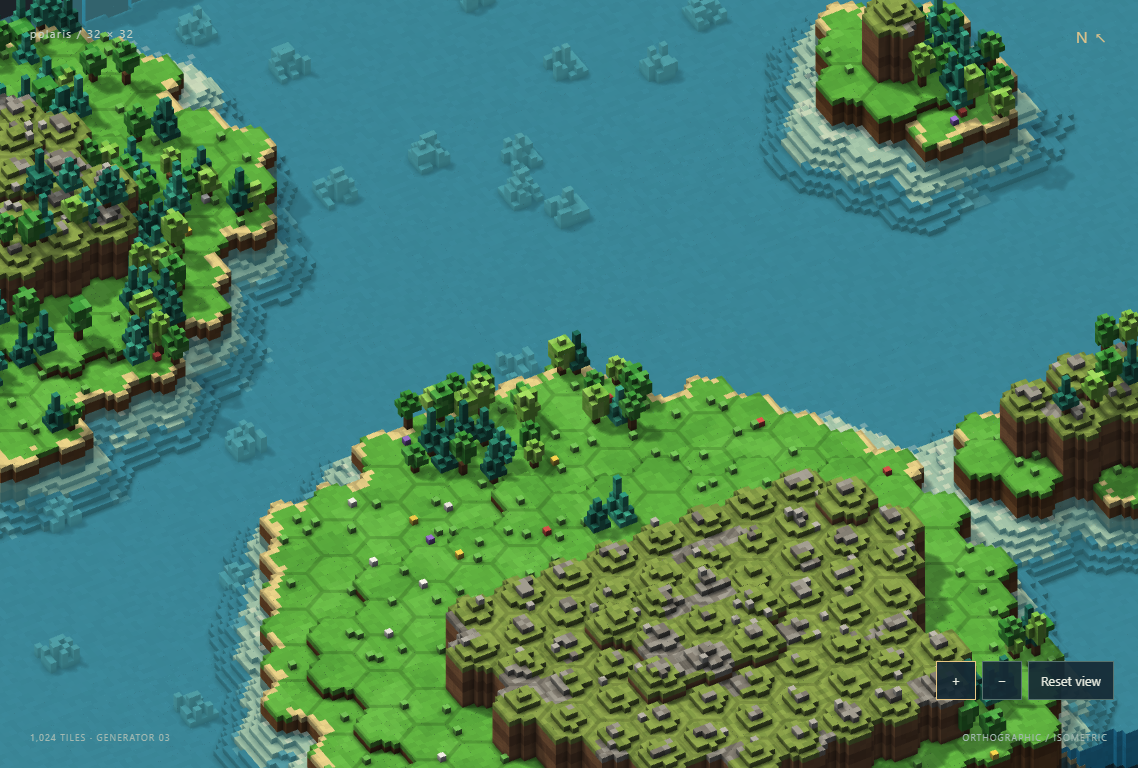
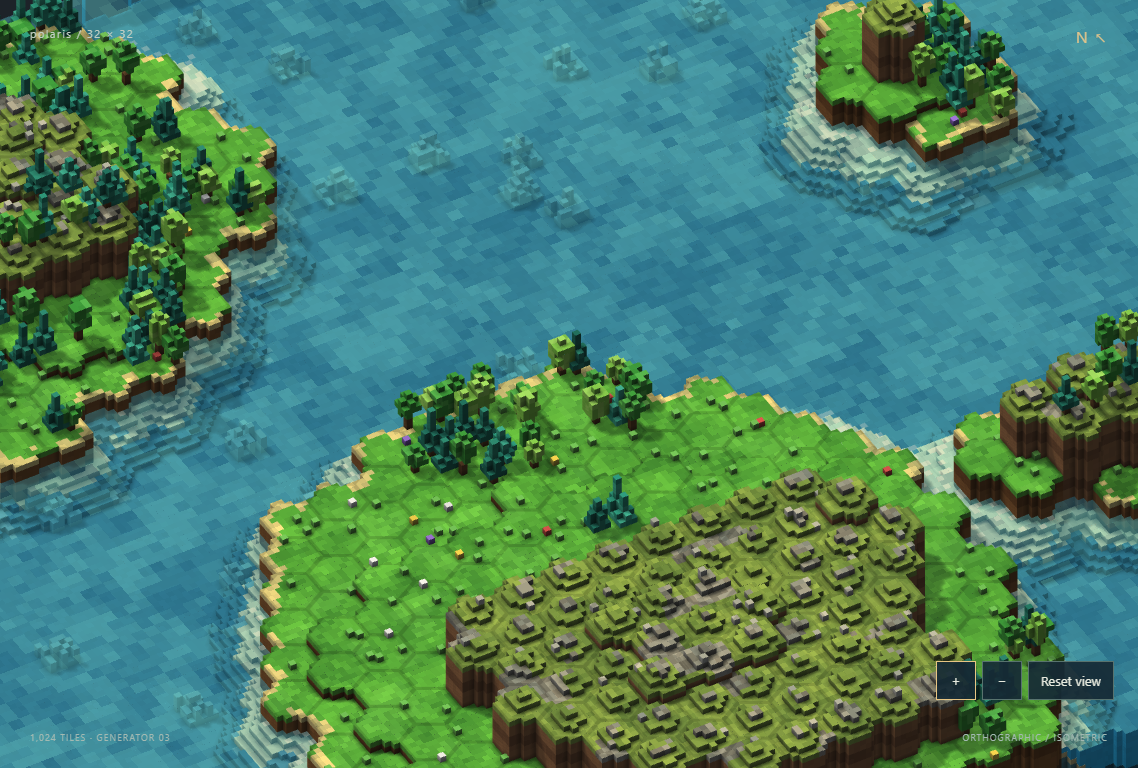
Add world-anchored shades to voxel surfaces
Add stepped material patches on water and terrain while preserving submerged geometry. Cover contrast and world anchoring with framebuffer regressions and refresh shared visual guidance.

diff --git a/tests/atlas.spec.ts b/tests/atlas.spec.ts
@@ -1,7 +1,7 @@
 import { expect, test, type Page } from '@playwright/test'
-import { generateMap } from '../src/game/map'
+import { generateMap, type Tile } from '../src/game/map'
 import { HEX_ROW, hexCenter } from '../src/game/hex'
-import { createVoxelWorld, centreColumn } from '../src/rendering/voxels'
+import { createVoxelWorld, centreColumn, type VoxelWorld } from '../src/rendering/voxels'
 
 async function settled(page: Page) {
   await page.evaluate(() => new Promise<void>(resolve => requestAnimationFrame(() => requestAnimationFrame(() => resolve()))))
@@ -9,6 +9,52 @@ async function settled(page: Page) {
 
 async function stats(page: Page) {
   return page.evaluate(() => window.polarisDiagnostics!.stats())
+}
+
+async function sampleSurface(page: Page, world: VoxelWorld, tile: Tile) {
+  const [origin, east, south] = await page.evaluate(ids => ids.map(id => window.polarisDiagnostics!.projectTile(id)),
+    [tile.id, tile.id + 1, tile.id + world.map.width])
+  expect(origin && east && south).toBeTruthy()
+  const dx = { x: east!.x - origin!.x, y: east!.y - origin!.y }
+  const rowShift = tile.z % 2 ? -0.5 : 0.5
+  const dz = { x: (south!.x - origin!.x - rowShift * dx.x) / HEX_ROW,
+    y: (south!.y - origin!.y - rowShift * dx.y) / HEX_ROW }
+  const [cx, cz] = hexCenter(tile.x, tile.z)
+  const [gx, gz] = centreColumn(world, tile)
+  const points: { x: number; y: number }[] = []
+  for (let z = -2; z < 3; z++) for (let x = -2; x < 3; x++) {
+    for (const fraction of [0.4, 0.6]) {
+      const u = world.originX + (gx + x + fraction) * world.size - cx
+      const v = world.originZ + (gz + z + fraction) * world.size - cz
+      points.push({ x: origin!.x + u * dx.x + v * dz.x, y: origin!.y + u * dx.y + v * dz.y })
+    }
+  }
+  const samples = await page.locator('canvas').evaluate((canvas, points) => {
+    const gl = (canvas as HTMLCanvasElement).getContext('webgl2')!
+    const rect = canvas.getBoundingClientRect()
+    return points.map(point => {
+      const x = Math.floor((point.x - rect.left) * gl.drawingBufferWidth / rect.width)
+      const y = gl.drawingBufferHeight - 1 - Math.floor((point.y - rect.top) * gl.drawingBufferHeight / rect.height)
+      if (x < 0 || y < 0 || x >= gl.drawingBufferWidth || y >= gl.drawingBufferHeight) throw new Error('Surface sample is off-screen')
+      const pixel = new Uint8Array(4)
+      gl.readPixels(x, y, 1, 1, gl.RGBA, gl.UNSIGNED_BYTE, pixel)
+      return [...pixel]
+    })
+  }, points)
+  return { origin: origin!, samples }
+}
+
+async function inspectSurface(page: Page, tile: Tile) {
+  await page.getByRole('button', { name: 'Reset view' }).click()
+  const point = await page.evaluate(id => window.polarisDiagnostics!.projectTile(id)!, tile.id)
+  const rect = (await page.locator('canvas').boundingBox())!
+  const x = rect.x + rect.width / 2, y = rect.y + rect.height / 2
+  await page.mouse.move(x, y)
+  await page.mouse.down()
+  await page.mouse.move(2 * x - point.x, 2 * y - point.y, { steps: 4 })
+  await page.mouse.up()
+  for (let zoom = 0; zoom < 5; zoom++) await page.getByRole('button', { name: 'Zoom in', exact: true }).click()
+  await settled(page)
 }
 
 async function selectTile(page: Page, width = 32, height = width) {
@@ -108,35 +154,7 @@ test('renders submerged water detail while picking the unchanged level surface',
   await page.locator('canvas').focus()
   for (let zoom = 0; zoom < 5; zoom++) await page.keyboard.press('+')
   await settled(page)
-  const [origin, east, south] = await page.evaluate(ids => ids.map(id => window.polarisDiagnostics!.projectTile(id)),
-    [tile.id, tile.id + 1, tile.id + map.width])
-  expect(origin && east && south).toBeTruthy()
-  const dx = { x: east!.x - origin!.x, y: east!.y - origin!.y }
-  const rowShift = tile.z % 2 ? -0.5 : 0.5
-  const dz = { x: (south!.x - origin!.x - rowShift * dx.x) / HEX_ROW,
-    y: (south!.y - origin!.y - rowShift * dx.y) / HEX_ROW }
-  const [cx, cz] = hexCenter(tile.x, tile.z)
-  const [gx, gz] = centreColumn(world, tile)
-  const points: { x: number; y: number }[] = []
-  for (let z = -2; z < 2; z++) for (let x = -2; x < 2; x++) {
-    for (const fraction of [0.4, 0.6]) {
-      const u = world.originX + (gx + x + fraction) * world.size - cx
-      const v = world.originZ + (gz + z + fraction) * world.size - cz
-      points.push({ x: origin!.x + u * dx.x + v * dz.x, y: origin!.y + u * dx.y + v * dz.y })
-    }
-  }
-  const samples = await page.locator('canvas').evaluate((canvas, points) => {
-    const gl = (canvas as HTMLCanvasElement).getContext('webgl2')!
-    const rect = canvas.getBoundingClientRect()
-    return points.map(point => {
-      const x = Math.floor((point.x - rect.left) * gl.drawingBufferWidth / rect.width)
-      const y = gl.drawingBufferHeight - 1 - Math.floor((point.y - rect.top) * gl.drawingBufferHeight / rect.height)
-      if (x < 0 || y < 0 || x >= gl.drawingBufferWidth || y >= gl.drawingBufferHeight) throw new Error('Water sample is off-screen')
-      const pixel = new Uint8Array(4)
-      gl.readPixels(x, y, 1, 1, gl.RGBA, gl.UNSIGNED_BYTE, pixel)
-      return [...pixel]
-    })
-  }, points)
+  const { origin, samples } = await sampleSurface(page, world, tile)
   const tones: number[] = []
   let totalRed = 0
   let totalGreen = 0
@@ -154,6 +172,50 @@ test('renders submerged water detail while picking the unchanged level surface',
   await expect(page.getByRole('status')).toHaveText(`(${tile.x}, ${tile.z}) · Water · Tile ${tile.id}`)
   expect((await stats(page)).waterSurfaceQuads).toBeGreaterThan(0)
 })
+
+for (const terrain of ['water', 'grassland'] as const) {
+  test(`${terrain} shows voxel-sized material shades anchored to the world`, async ({ page }, testInfo) => {
+    const map = generateMap({ seed: 'polaris', width: 32, height: 32 })
+    const world = createVoxelWorld(map)
+    await page.goto('/?diagnostics=1')
+    await expect(page.locator('#map-status')).toContainText('1,024 TILES')
+    const initial = await stats(page)
+    const tile = map.tiles.filter(tile => tile.terrain === terrain
+      && tile.x > 2 && tile.x < 29 && tile.z > 2 && tile.z < 29
+      && map.tiles.every(other => Math.hypot(other.x - tile.x, other.z - tile.z) > 1.8
+        || (other.terrain === terrain && other.elevation === tile.elevation && other.trees === 0)))
+      .sort((a, b) => Math.hypot(a.x - 16, a.z - 16) - Math.hypot(b.x - 16, b.z - 16))[0]
+    expect(tile, `Flat, tree-free ${terrain} sample`).toBeDefined()
+    await inspectSurface(page, tile!)
+    const { samples } = await sampleSurface(page, world, tile!)
+    const green = samples.filter((_, i) => i % 2 === 0).map(pixel => pixel[1]!)
+    expect(Math.max(...green) - Math.min(...green), `${terrain} tonal range`).toBeGreaterThan(18)
+    expect(new Set(green.map(value => Math.round(value / 4))).size, `${terrain} tone bands`).toBeGreaterThanOrEqual(4)
+    if (terrain === 'grassland') {
+      // Isolated tufts/stones must not stand in for variation across the ground itself.
+      const sorted = [...green].sort((a, b) => a - b)
+      const middleRange = sorted[Math.floor(sorted.length * 0.75)]! - sorted[Math.floor(sorted.length * 0.25)]!
+      expect(middleRange, 'Grass shading spans the surface, not just a few outliers').toBeGreaterThan(12)
+    }
+    let withinCell = 0
+    for (let i = 0; i < samples.length; i += 2) {
+      withinCell += Math.abs(samples[i]![1]! - samples[i + 1]![1]!)
+      expect(samples[i]![3]).toBe(255)
+    }
+    expect(withinCell / (samples.length / 2), `${terrain} is flat inside each voxel`).toBeLessThan(3)
+    await page.locator('canvas').screenshot({ path: testInfo.outputPath(`surface-${terrain}.png`) })
+
+    await page.locator('canvas').focus()
+    await page.keyboard.press('ArrowRight')
+    await settled(page)
+    const shifted = await sampleSurface(page, world, tile!)
+    const differences = samples.map((pixel, i) => Math.abs(pixel[1]! - shifted.samples[i]![1]!))
+    expect(Math.max(...differences), `${terrain} shades must move with the world, not the screen`).toBeLessThanOrEqual(3)
+    expect(await stats(page)).toMatchObject({
+      vertices: initial.vertices, vertexBufferBytes: initial.vertexBufferBytes, remeshedChunks: initial.remeshedChunks,
+    })
+  })
+}
 
 test('regenerates repeatably and releases old chunk resources three times', async ({ page }) => {
   await page.goto('/?diagnostics=1')

diff --git a/src/rendering/world.ts b/src/rendering/world.ts
@@ -78,7 +78,7 @@ const PLATE_HEIGHT = 0.95
 const FIGURE_YAW = Math.PI / 6 - 0.4
 
 /**
- * Per-voxel grain, hex grid lines, territory tint and borders, explored dimming and reachable highlights on top of
+ * Voxel-aligned material tones, hex grid lines, territory tint and borders, explored dimming and reachable highlights on top of
  * baked vertex colours and ambient occlusion. Tile state lives in small textures, so fog-of-war, movement and
  * territory changes never require remeshing.
  */
@@ -139,6 +139,19 @@ uniform sampler2D polarisTileState;
 uniform sampler2D polarisColumns;
 vec3 polarisFaction(int owner) { return owner == 1 ? vec3(1.0, 0.76, 0.2) : vec3(0.22, 0.52, 1.0); }
 int polarisByte(float value) { return int(value * 255.0 + 0.5); }
+float polarisGrain(ivec3 cell) {
+  uvec3 p = uvec3(cell + 8192);
+  uint h = p.x * 73856093u ^ p.y * 19349663u ^ p.z * 83492791u;
+  h = (h ^ (h >> 13u)) * 1274126177u;
+  return float((h >> 8u) & 255u) / 255.0;
+}
+float polarisPatch(vec2 p) {
+  ivec2 cell = ivec2(floor(p));
+  vec2 t = fract(p);
+  t = t * t * (3.0 - 2.0 * t);
+  return mix(mix(polarisGrain(ivec3(cell.x, 97, cell.y)), polarisGrain(ivec3(cell.x + 1, 97, cell.y)), t.x),
+    mix(polarisGrain(ivec3(cell.x, 97, cell.y + 1)), polarisGrain(ivec3(cell.x + 1, 97, cell.y + 1)), t.x), t.y);
+}
 `,
       // Tile state per texel: R explored, G reachable, A charted. B holds the territory owner in its low two bits
       // (0 none, 1 gold, 2 blue) and, above them, one bit per hex edge where that territory ends.
@@ -149,15 +162,30 @@ vec2 polarisWidth = fwidth(vPositionW.xz);
 float polarisAa = max(max(polarisWidth.x, polarisWidth.y), 1e-4);
 vec3 polarisInside = vPositionW - normalW * 0.5 * polarisVoxel.x;
 ivec2 polarisColumn = ivec2(floor((polarisInside.xz - polarisGrid.xy) / polarisVoxel.x));
-ivec3 polarisCell = ivec3(polarisColumn.x, int(floor(polarisInside.y / polarisVoxel.x)), polarisColumn.y) + 8192;
-uint polarisHash = uint(polarisCell.x) * 73856093u ^ uint(polarisCell.y) * 19349663u ^ uint(polarisCell.z) * 83492791u;
-polarisHash = (polarisHash ^ (polarisHash >> 13u)) * 1274126177u;
-float polarisNoise = float((polarisHash >> 8u) & 255u) / 255.0;
+ivec3 polarisCell = ivec3(polarisColumn.x, int(floor(polarisInside.y / polarisVoxel.x)), polarisColumn.y);
+float polarisNoise = polarisGrain(polarisCell);
 float polarisWater = step(1.25, vPolarisFlag);
 float polarisSurface = step(1.75, vPolarisFlag);
+float polarisLand = step(0.75, vPolarisFlag) * (1.0 - step(1.1, vPolarisFlag));
 float polarisWaterOverlay = 0.0;
-// Relief comes from the submerged voxel geometry, not a bevel painted on the level surface.
 if (polarisSurface < 0.5) baseColor.rgb *= 0.96 + 0.08 * polarisNoise;
+// Constant tones within world-space voxel cells form material patches, not painted depth or moving waves.
+if (normalW.y > 0.5 && polarisLand + polarisSurface > 0.5) {
+  float polarisCellSize = mix(1.0, 2.0, polarisSurface);
+  ivec2 polarisMaterialCell = ivec2(floor(vec2(polarisColumn) / polarisCellSize));
+  vec2 polarisSample = vec2(polarisMaterialCell) + 0.5;
+  float polarisMaterialGrain = polarisGrain(ivec3(polarisMaterialCell.x, polarisCell.y, polarisMaterialCell.y));
+  float polarisTone = clamp(0.5 + 0.85 * (polarisPatch(polarisSample / 3.0) - 0.5)
+    + 0.3 * (polarisPatch(polarisSample / 11.0) - 0.5)
+    + mix(0.25, 0.55, polarisSurface) * (polarisMaterialGrain - 0.5), 0.0, 0.999);
+  polarisTone = floor(polarisTone * 5.0) / 4.0;
+  float polarisDetail = 1.0 - smoothstep(0.35, 1.5, polarisAa / (polarisVoxel.x * polarisCellSize));
+  vec3 polarisDark = mix(vec3(0.8, 0.85, 0.82), vec3(0.62, 0.78, 0.88), polarisSurface);
+  vec3 polarisLight = mix(vec3(1.1, 1.08, 0.98), vec3(1.42, 1.25, 1.16), polarisSurface);
+  float polarisContrast = polarisDetail * mix(1.0, 0.35, step(2.125, vPolarisFlag));
+  baseColor.rgb *= mix(vec3(1.0), mix(polarisDark, polarisLight, polarisTone), polarisContrast);
+}
+// Relief still comes from the submerged voxel geometry.
 if (polarisWater > 0.5 && polarisSurface < 0.5) {
   float polarisDepth = max(0.0, polarisVoxel.w - vPositionW.y);
   baseColor.rgb = mix(baseColor.rgb, vec3(0.06, 0.42, 0.56), min(0.45, polarisDepth * 0.35));
@@ -168,7 +196,6 @@ if (vPolarisFlag > 0.25) {
   vec4 polarisState = texelFetch(polarisColumns, clamp(polarisColumn, ivec2(0), ivec2(polarisGrid.zw) - 1), 0);
   int polarisOwner = polarisByte(polarisState.b) & 3;
   // Tints colour the ground only, so buildings and trees keep their own colours.
-  float polarisLand = step(0.75, vPolarisFlag) * (1.0 - step(1.1, vPolarisFlag));
   float polarisGround = polarisLand + polarisSurface;
   ${this.waterPass ? 'polarisGround = 0.0;' : ''}
   if (polarisOwner > 0) baseColor.rgb = mix(baseColor.rgb, polarisFaction(polarisOwner), 0.14 * polarisGround);

diff --git a/docs/architecture.md b/docs/architecture.md
@@ -54,6 +54,7 @@ Terrain/resource definitions are typed, data-driven records with stable symbolic
 - `world.ts` uploads each chunk as one `Mesh` and geometry, with opaque indices first and transparent water indices last (`waterIndexCount`). Two submeshes share a `MultiMaterial` containing terrain and water `StandardMaterial`s; both use the same material plugin and state textures, with a shader define separating their cached terrain and water variants. Water adds at most one colour pass per water-bearing chunk, not per voxel or tile. The plugin adds per-voxel colour grain on solids, explored dimming, the reachable-range tint and territory tint, plus flat unlit fog. It reads two small state textures: a **width × height tile-state texture** (R explored, G reachable, B territory, A charted) and a **column texture** holding the owning tile's state for every voxel column. Hex overlays are drawn on land tops and the level water cap, not the submerged floor. The ordinary grid is faint on water and fades further when zoomed out; selection, reachable outline and territory border remain distinct. The territory byte (`territoryCode`) carries the owner plus one bit per hex edge where the territory ends. Explored dimming, ranges and borders update in place; newly charted terrain remeshes only affected chunks, including the outer shelf radius.
 - **Actual underwater voxel relief, not painted square facets.** The maintainer's Ist/Soll comparison rejected the former opaque patterned plane. Charted-land distance determines a continuous seabed depth, warped by deterministic broad/fine noise; depth therefore follows irregular coves rather than drawing even rings. The seabed shows pale sand in the shallows, patchy sand/stone on the shoal, muted stone at the shelf and a deep blue floor. Every seabed material, including deep blue, uses the water-floor face flag so it never inherits the land grid. Sparse seeded outcrops rise from it. Real top and side faces remain visible through a level alpha-blended cap (alpha 0.4); the open-water hex grid is suppressed so the underwater forms read first. Terrain and water material plugins share logic but have distinct shader-cache defines, preserving their different grid behavior. Water colour and softened underwater lighting support, rather than paint over, the geometry. Cut walls remain opaque blue. Only **charted** land shapes the depth field, and unknown tiles contain no seabed or rocks. Scale 2 omits coastal relief and outcrops to preserve large-map budgets. There are no dynamic waves, refraction, water physics or gameplay depth changes. Tests verify multiple floor heights and materials, submerged side faces and rocks, exact constant-height cap coverage, opaque/transparent index separation, hidden-coast protection, outer-shelf invalidation and unchanged water picking; a browser check verifies visible water detail in the framebuffer.
 - Lighting is a hemispheric fill and a directional sun with one 1024² PCF shadow map. The shadow map uses a 16-bit single-channel colour target plus 32-bit depth, about 6 MiB, fixed and independent of map size. Opaque terrain and submerged solids cast shadows; the transparent cap does not. The map is redrawn only after map changes or remeshing once shaders are ready, not every frame. Chunk vertex/index buffers are about 8.9 MiB for the showcase (187,364 vertices), 34.7 MiB at 64² (727,068) and 16.5 MiB at 256² (346,468), excluding shadows, state textures and CPU copies. The showcase atlas has **16 chunks + 2 markers = 18 meshes, 6 materials** (terrain, water, figures, rival ring, hover, selection), plus the shared `MultiMaterial`; both larger fixtures have **56 chunks, 58 meshes**. Geometry counts remain equal to mesh counts. Unit tests retain the 250k showcase and 900k larger-fixture vertex caps.
+- **Surface material shades supplement geometry.** The material plugin combines two smooth procedural patch fields with per-cell grain, quantizes them into five tones and applies material-specific RGB multipliers to upward-facing land and water-cap faces. This replaces the overly uniform surface reading without changing the accepted seabed. Cells are anchored in global voxel-column space, continuous across hex and chunk boundaries: one voxel on ground, 2 by 2 voxels on water to avoid fine visual noise. Derivative-based filtering fades their contrast as they become subpixel, and the shoreline receives only 35% of the contrast. Existing solid grain, baked occlusion, lighting and real underwater relief remain; decorations and opaque fog are excluded, and territory/reachable overlays apply afterward. No image texture, additional geometry, state texture, animation or rules/PRNG change is introduced. Browser framebuffer tests check water/grass tonal spread, flat colour inside cells, camera-independent world anchoring and unchanged vertex/buffer counts. The grass test also checks the interquartile colour range so isolated tufts or stones cannot masquerade as surface shading.
 - **Rendering on demand.** The map has no animation, so the render loop draws a frame only after something changed: camera, markers, map, fog, figures or canvas size all call `invalidate()`. It keeps drawing while shaders compile and refreshes the one-shot shadow map once the scene is ready. Idle turns therefore cost no GPU time, which matters for phone batteries and for several open matches. New code that changes the scene must call `invalidate()`.
 - **Units and cities.** Units are small voxel figures (`src/rendering/figures.ts`, 1/24-unit voxels, cached per kind and faction) standing on the visible voxel under their feet; several units on one hex stand side by side. Rival units also get a dashed red hex ring. Each visible city gets an HTML name plate with its population above the keep, positioned from the camera matrices after every camera change.
 - Picking does not ray-cast meshes. The renderer keeps a per-tile surface height, which is the fog height for unseen tiles. `pickTile` walks the camera ray through the voxel columns (2D DDA) and returns the canonical ID of the hex owning the first column the ray enters at or below its tile's surface. Unit tests check it against a brute-force intersection. Decorations never intercept picks, and identity never derives from draw order.

diff --git a/README.md b/README.md
@@ -363,11 +363,13 @@ These are functional UI captures, not concept art or evidence of native-GPU perf
 
 Generator 3 builds broad, irregular landforms on a **hex grid** (pointy-top hexes in odd-r rows) before adding local coast variation, elevation steps and clustered trees. The renderer builds every hex from square columns of small cubic voxels: 8 voxels per tile on the showcase, 4 up to 128² and 2 on the 256² fixture, so each field is a stepped hexagon, as in the approved [hex voxel concept](docs/concept-hex-voxel.jpg). The scene shows green grass over banded dirt cliffs, sandy beaches, terraced hex mounds for hills, and up to five round voxel trees on the back of a hex, plus grass tufts, flowers and stones. Water has a level translucent surface over real stepped voxel seabed and sparse submerged rocks. Charted-land distance, warped by deterministic noise, shapes irregular coves and sandbars instead of concentric depth rings; the bottom shifts from pale sand through patchy stone to deep blue. The cube tops and sides are geometry, not painted bevels on a flat plane; exposed diorama cut walls remain blue and opaque. The open-water hex grid is suppressed to keep attention on underwater detail. Coastal relief and rocks are omitted at scale 2. Land and underwater terrain appear only where charted during an expedition, and unknown coasts cannot shape visible water. Faces are greedy-meshed with baked ambient occlusion; opaque and transparent submeshes share each chunk's geometry, without individual cube meshes. A sky fill and a sun with soft shadows light the scene, and the scene is redrawn only when something changes. Terrain and decorations are original procedural placeholders. Cities appear as voxel settlements (a stone keep with a gold Meridian or blue Lantern banner, one to three red-roofed houses as the population grows, and a thatched storehouse once built) with a name plate showing the population and a border in the faction colour around their territory. Scouts, founders, guards and workers are small voxel figures in faction colours; rival units get a red hex ring. The voxels are visual, not destructible or editable terrain; water depth changes neither rules nor picking. No dynamic waves, refraction or water physics are implemented. Selection/hover hex outlines are renderer-only data. Invalid inputs leave the prior valid map intact and show an explicit error. Missing WebGL 2 or context loss shows an error rather than a fake successful scene; reload after context loss.
 
-### Visual overview: submerged voxel coast
+Surface materials add five levels of world-anchored light/dark patches: broader 2-by-2-voxel blue/turquoise shades on the water cap and finer one-voxel shades on grass, sand and rock tops. Fine contrast fades as cells become subpixel, and shoreline variation is softer. This supplements the real underwater geometry rather than painting fake depth. The material shader adds no image textures, geometry or animation; fog stays uniform and gameplay overlays remain distinct.
 
-![Actual running renderer: stepped submerged cube faces and rocks under translucent turquoise water](docs/voxel-water-coast.png)
+### Visual overview: shaded voxel surfaces and coast
 
-Fresh application capture for the latest draft #31: `polaris`, 32 × 32, desktop Chromium/SwiftShader at 1440 × 900, DPR 1, zoomed coastal crop. The open-water hex grid is suppressed, while irregular sandy/rocky shallows and submerged cube relief remain visible. This is the implementation, not concept art or a hardware performance benchmark. The revision passed 121 unit tests, 22 browser tests, type-check, lint and production build. Visual acceptance remains part of draft review.
+![Actual running renderer: tonal patches on water and grass, above unchanged submerged voxel relief](docs/voxel-water-coast.png)
+
+Fresh application capture for the latest draft #31: `polaris`, 32 × 32, desktop Chromium/SwiftShader at 1440 × 900, DPR 1, zoomed coastal crop. Light/dark surface patches now shade water and ground without restoring the open-water hex grid or changing the submerged relief. This is the implementation, not concept art or a hardware performance benchmark. The revision passed 121 unit tests, 24 browser tests, type-check, lint and production build. The new framebuffer regressions check tonal spread, within-cell flatness, world anchoring after camera movement and unchanged geometry/buffer counts; both reject the preceding flat-surface shader. Visual acceptance remains part of draft review.
 
 ## Validation and benchmark evidence
 

diff --git a/docs/game-design.md b/docs/game-design.md
@@ -89,6 +89,8 @@ The world itself uses the bright diorama palette of the [hex voxel concept](conc
 
 Forest uses clustered stepped crowns; hills use broad terraces; mountains use taller narrow peaks. Water has a level translucent surface over **actual submerged cubic steps and sparse rock groups**, with visible top and side faces. A flat plane decorated with squares is not the intended voxel water. The seabed follows warped distance from charted land, creating irregular coves rather than even rings; sandy shallows fade through patchy stone into a muted deep-blue floor. Opaque blue walls close the diorama sides. The coarsest scale omits coastal relief and rocks to keep large maps bounded. Water hue and softened depth contrast support the underwater geometry, while the near-invisible open-water grid keeps attention on coasts and submerged features. There are no dynamic waves, refraction or water physics; depth is visual only, with unchanged water picking and rules. Terrain identity must not rely on color alone.
 
+**Surface shading:** water is calm, but not a single flat colour. Its translucent cap has stepped blue/turquoise light and dark patches; grass, sand and rock tops have finer material shades. Five tone levels follow world-aligned voxel cells rather than screen pixels or hex-sized colour blocks. Water uses broader 2-by-2-voxel patches; ground uses one-voxel detail. Fine contrast recedes in the overview and stays softer along the shoreline. This is additional material variation, not painted depth: the accepted underwater cube geometry remains visible and unchanged. There are no animated highlights or imported image textures, and uncharted fog stays uniform.
+
 Selection is a high-contrast gold hex outline plus inspector text. Ownership uses a faction-coloured border band on the inner edge of each territory, distinct from selection; city name plates carry the population. Expedition fog uses subdued explored tiles and opaque uniform unseen tiles, hiding terrain silhouettes, trees, picking and tooltips. Provide readable labels, keyboard-accessible controls, and a non-color selection indicator.
 
 **Hex voxel world (implemented):** the approved concept [`concept-hex-voxel.jpg`](concept-hex-voxel.jpg) combines hex fields with cubic voxels: each hex is a stepped diorama column with cliffs and soil, a calm surface with a few small trees on its back row, so the centre stays free for a unit figure. It draws on the readable board layout of *Into the Breach*, the clear territories and city plates of *Polytopia* and the chunky voxel figures of *Voxel Tactics*, without copying their art. It departs from `showcase.png` in tile shape and palette with explicit user approval. Since then the two references split the authority: the concept governs the look of the board, and `showcase.png` remains authoritative for landforms, composition and scale. The binding graphics rules are in the [Copilot instructions](../.github/copilot-instructions.md#graphics-rules-for-the-hex-voxel-world).

diff --git a/.github/copilot-instructions.md b/.github/copilot-instructions.md
@@ -64,6 +64,7 @@ Details and numbers are in [ADR-004](../docs/architecture.md#adr-004-map-and-ren
 - **Hex fields of cubic voxels.** Land hexes stack soil, dirt or rock cliffs, a grass, sand or rock top, and terraced mounds for hills. Water hexes contain a stepped voxel seabed under a level translucent surface, with blue diorama cut walls. No hexagonal voxels, smoothed terrain, decorative image textures or imported models.
 - **A calm, readable board**, as in *Into the Breach*: few elements per hex, and small trees on the back row, so the centre stays free for a unit. Terrain identity must not rely on colour alone. The plain hex grid stays subtle: faint on open water and fading when zoomed out, while selection, reachable outline and territory border keep full strength.
 - **Voxel water and readable coasts.** Build actual submerged cube steps and sparse seeded rock groups, with visible top and side faces beneath a level translucent surface. A flat plane with square shading or colour bands is not a substitute. Warp charted-land distance with broad and fine noise so the shoal, shelf and seabed break into irregular coves and sandbars instead of concentric rings; show pale sand in the shallows, muted stone at the shelf and deep blue farther out. Never use hidden coasts. Keep the open-water hex grid almost imperceptible and picking at the unchanged water level. Classify every seabed palette kind, including deep seabed, as water floor rather than land so the land grid cannot leak across open water; keep terrain and water shader-cache variants distinct. Share chunk geometry between opaque and transparent submeshes; no per-cube meshes, refraction or continuous wave animation. See ADR-004 for the coarse-scale simplification.
+- **Shaded surfaces, not flat fills.** Calm water does not mean uniform colour: use deterministic light/dark material patches on the water cap and grass, sand and rock tops. Keep tones anchored to world voxel coordinates across hexes and chunks, with five shade levels, broader 2-by-2-voxel water cells and one-voxel ground cells. Fade fine contrast when zoomed out and soften it at the shoreline. These shades supplement real underwater geometry; they never replace it. Keep fog uniform, decorations unchanged and gameplay overlays readable; no extra image textures, geometry or animation.
 - **Clear territory**, as in *Polytopia*: a faction-coloured border band on the inner edge of each territory, and a name plate with the population above each visible city. Selection is a gold hex outline; hexes reachable this turn get their own outline. Keep the three distinct.
 - **Chunky voxel figures**, as in *Voxel Tactics*: units are small voxel figures in faction colours, standing on their hex. No sprites or billboards.
 - Learn from these games' design; never copy their art, names or assets.
